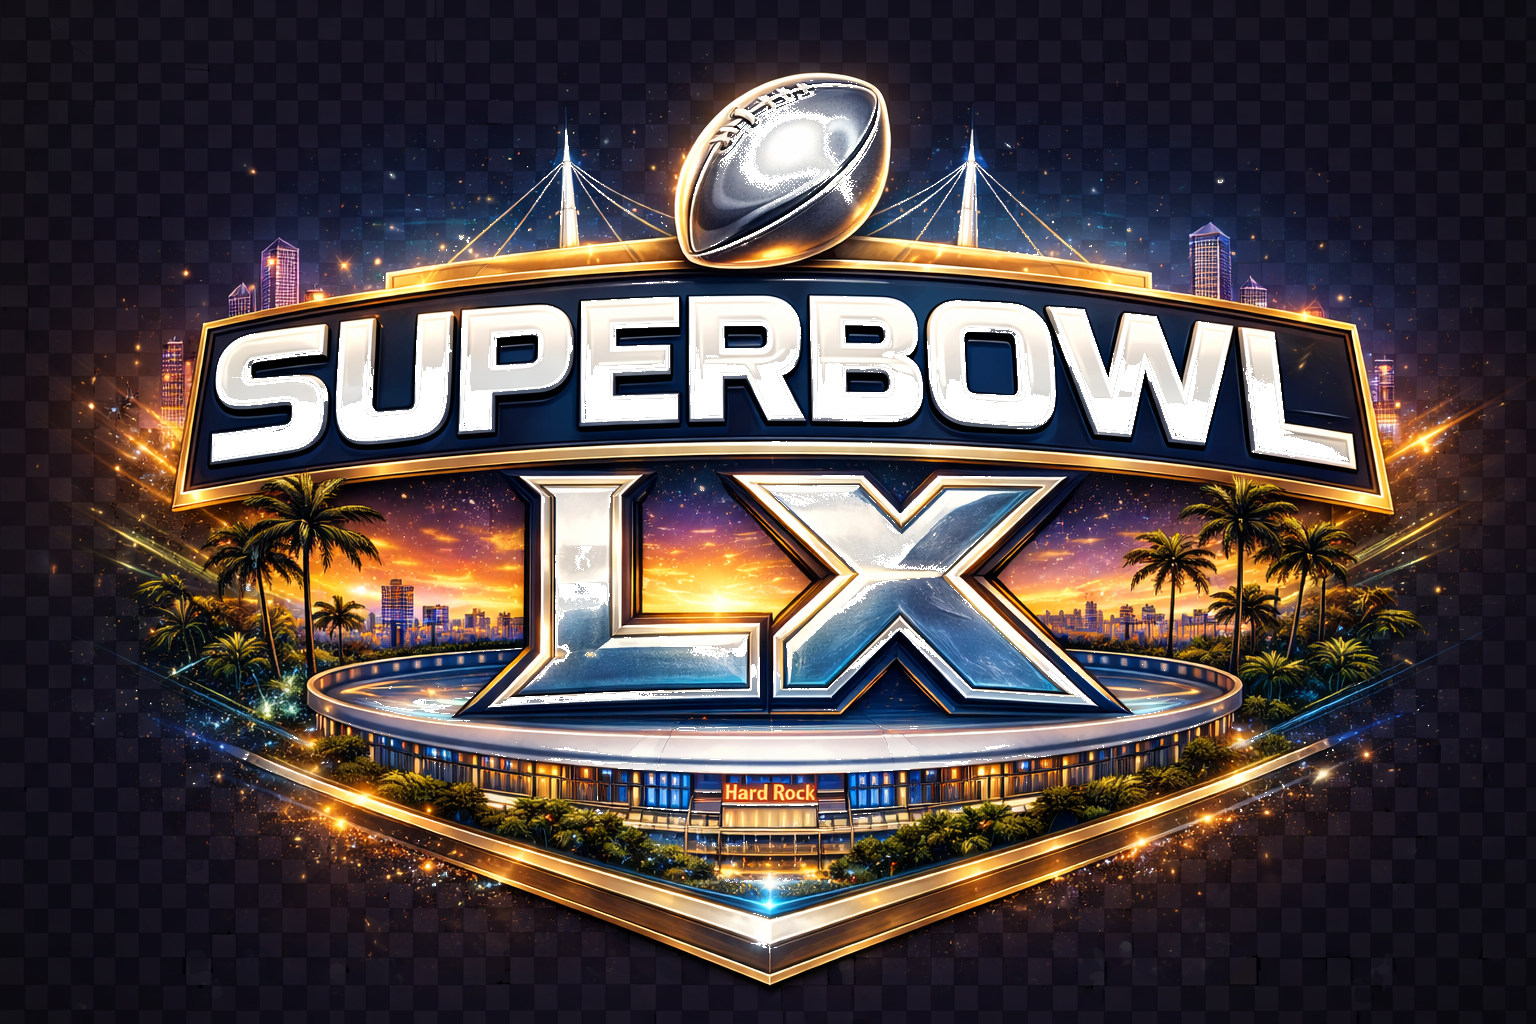
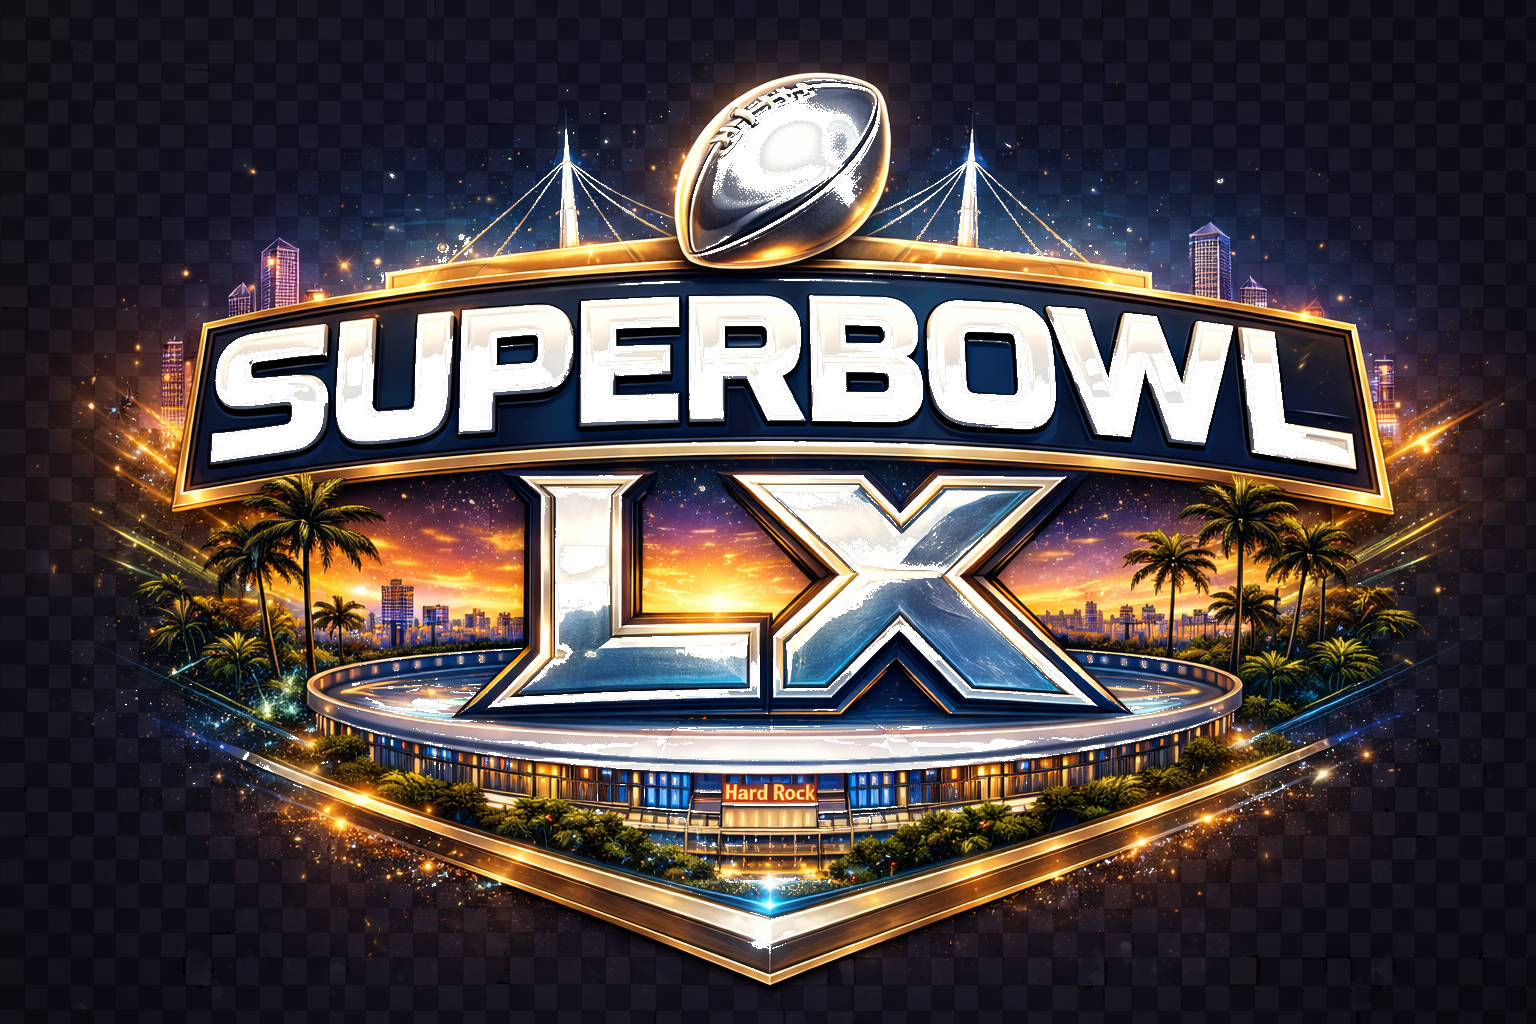
fix: improve transparency for Wild Card and Super Bowl graphics
- Re-process wildcard.png with aggressive transparency (removed 64,948 pixels, 4.1%)
- Re-process superbowl.png with aggressive transparency (removed 71,447 pixels, 4.5%)
- Expanded gray detection range (128-192 with ±30 tolerance)
- Move date closer to title graphic with negative margin (-mt-2)

Fixes checkerboard pattern visibility on Wild Card and Super Bowl graphics.
Date now positioned tighter below title for better visual balance.

diff --git a/src/components/scoreboard/MainScoreboard.tsx b/src/components/scoreboard/MainScoreboard.tsx
@@ -609,7 +609,7 @@ function GameHeader({ seasonName, status, startTime, venue, broadcast, hideDateT
           
           {/* Date in DD.MM.YYYY format - Text only, no box */}
           {startTime && (
-            <span className="text-3xl font-bold text-white tracking-wider">
+            <span className="text-3xl font-bold text-white tracking-wider -mt-2">
               {getFormattedDate()}
             </span>
           )}
